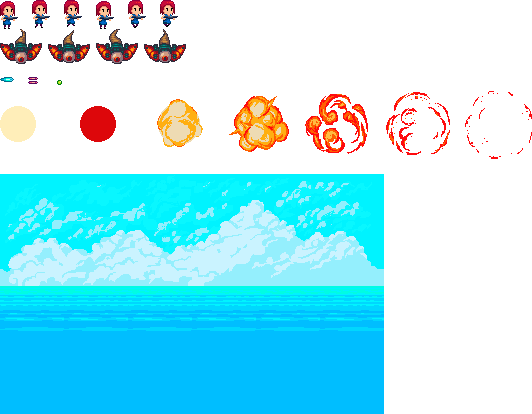
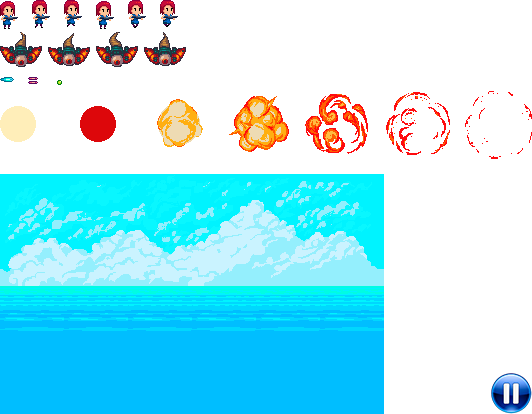
Add Pause button

Changed region(s): [[0.0, 0.058, 0.3609, 0.1739], [0.9023, 0.8986, 1.0, 1.0]]

diff --git a/core/src/cat/xtec/ioc/screens/GameScreen.java b/core/src/cat/xtec/ioc/screens/GameScreen.java
@@ -8,6 +8,9 @@ import com.badlogic.gdx.graphics.g2d.GlyphLayout;
 import com.badlogic.gdx.graphics.g2d.TextureRegion;
 import com.badlogic.gdx.graphics.glutils.ShapeRenderer;
 import com.badlogic.gdx.scenes.scene2d.Stage;
+import com.badlogic.gdx.scenes.scene2d.Touchable;
+import com.badlogic.gdx.scenes.scene2d.ui.ImageButton;
+import com.badlogic.gdx.scenes.scene2d.ui.Table;
 import com.badlogic.gdx.utils.viewport.Viewport;
 
 import java.util.ArrayList;
@@ -27,7 +30,7 @@ public class GameScreen implements Screen {
 
     public enum GameState {
 
-        READY, RUNNING, GAMEOVER
+        READY, RUNNING, GAMEOVER, PAUSED
 
     }
 
@@ -48,7 +51,9 @@ public class GameScreen implements Screen {
     // Preparem el textLayout per escriure text
     private GlyphLayout textLayout;
 
-
+    // Pause button
+    ImageButton pauseButton;
+    Table tableControl;
 
     public GameScreen(Batch prevBatch, Viewport prevViewport) {
 
@@ -79,6 +84,16 @@ public class GameScreen implements Screen {
         // Donem nom a l'Actor
         warrior.setName("warrior");
 
+        // Afegim el botó de pause
+        tableControl = new Table();
+        pauseButton = new ImageButton(AssetManager.pauseButton);
+        tableControl.setPosition(Settings.GAME_WIDTH - 20,20);
+        stage.addActor(tableControl);
+        tableControl.add(pauseButton).size(20,20);
+
+        pauseButton.setBounds(30, 10,20,20);
+        pauseButton.setTouchable(Touchable.enabled);
+
         // Iniciem el GlyphLayout
         textLayout = new GlyphLayout();
         textLayout.setText(AssetManager.font, "Are you\nready?");
@@ -88,6 +103,18 @@ public class GameScreen implements Screen {
         // Assignem com a gestor d'entrada la classe InputHandler
         Gdx.input.setInputProcessor(new InputHandler(this));
 
+    }
+
+    public void pauseGame(){
+        AssetManager.music.setVolume(Settings.LOW_VOLUME);
+        currentState = GameState.PAUSED;
+    }
+    public void unpauseGame(){
+        currentState = GameState.RUNNING;
+        AssetManager.music.setVolume(Settings.NORMAL_VOLUME);
+    }
+    public boolean isGamePaused(){
+        return currentState == GameState.PAUSED;
     }
 
     private void drawElements() {

diff --git a/core/src/cat/xtec/ioc/helpers/InputHandler.java b/core/src/cat/xtec/ioc/helpers/InputHandler.java
@@ -8,6 +8,7 @@ import com.badlogic.gdx.scenes.scene2d.Stage;
 
 import cat.xtec.ioc.objects.Warrior;
 import cat.xtec.ioc.screens.GameScreen;
+import cat.xtec.ioc.utils.Settings;
 
 public class InputHandler implements InputProcessor {
 
@@ -49,24 +50,38 @@ public class InputHandler implements InputProcessor {
 
         switch (screen.getCurrentState()) {
             case READY:
-
-                // Si fem clic comencem el joc
                 screen.setCurrentState(GameScreen.GameState.RUNNING);
                 break;
-            case RUNNING:
-                previousY = screenY;
 
+            case RUNNING:
+
+                previousY = screenY;
                 stageCoord = stage.screenToStageCoordinates(new Vector2(screenX, screenY));
-                Actor actorHit = stage.hit(stageCoord.x, stageCoord.y, true);
-                if (actorHit != null) {
-                    Gdx.app.log("The Warrior is shooting", actorHit.getName());
-                    warrior.shot();
+
+                Gdx.app.log("Current Stage Coord X...", String.valueOf(stageCoord.x));
+                Gdx.app.log("Current Stage Coord Y...", String.valueOf(stageCoord.y));
+
+                // Check if is pause button
+                Actor pauseButtonHit = stage.hit(stageCoord.x, stageCoord.y,true);
+                if(!screen.isGamePaused() && stageCoord.x >= Settings.GAME_WIDTH - 40 && pauseButtonHit != null){
+                    screen.pauseGame();
                 }
 
+                if(!screen.isGamePaused()) {
+                    Actor actorHit = stage.hit(stageCoord.x, stageCoord.y, true);
+                    if (actorHit != null) {
+                        Gdx.app.log("The Warrior is shooting", actorHit.getName());
+                        warrior.shot();
+                    }
+                }
                 break;
-            // Si l'estat és GameOver tornem a iniciar el joc
+
             case GAMEOVER:
                 screen.reset();
+                break;
+
+            case PAUSED:
+                screen.unpauseGame();
                 break;
         }
 

diff --git a/core/src/cat/xtec/ioc/helpers/AssetManager.java b/core/src/cat/xtec/ioc/helpers/AssetManager.java
@@ -8,6 +8,8 @@ import com.badlogic.gdx.graphics.Texture;
 import com.badlogic.gdx.graphics.g2d.Animation;
 import com.badlogic.gdx.graphics.g2d.BitmapFont;
 import com.badlogic.gdx.graphics.g2d.TextureRegion;
+import com.badlogic.gdx.scenes.scene2d.utils.Drawable;
+import com.badlogic.gdx.scenes.scene2d.utils.TextureRegionDrawable;
 
 public class AssetManager {
 
@@ -38,6 +40,9 @@ public class AssetManager {
 
     // Font
     public static BitmapFont font;
+
+    // Pause button
+    public static Drawable pauseButton;
 
     public static void load() {
 
@@ -108,6 +113,9 @@ public class AssetManager {
         // Load Warrior animation
         warriorShotAnim = new Animation(0.08f, warriorShot);
         warriorShotAnim.setPlayMode(Animation.PlayMode.NORMAL);
+
+        // Pause button
+        pauseButton = new TextureRegionDrawable(new TextureRegion(sheet,491,373,40,40));
 
         /******************************* Sounds *************************************/
 

diff --git a/core/src/cat/xtec/ioc/utils/Settings.java b/core/src/cat/xtec/ioc/utils/Settings.java
@@ -26,5 +26,9 @@ public class Settings {
     public static final int SCORE_INCREASE = 100; // s'incrementa en 100 cada cop que toca una moneda
     public static final int SCORE_SPEED = -175;
 
+    // Propietats per al pause
+    public static final float NORMAL_VOLUME = 2f;
+    public static final float LOW_VOLUME = 0.5f;
+
 
 }
